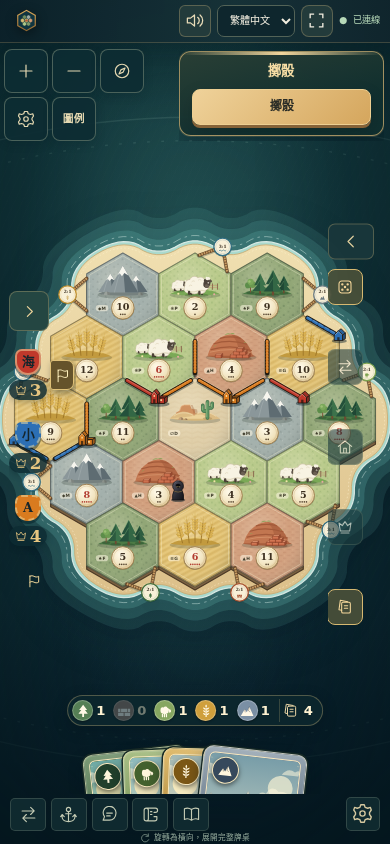
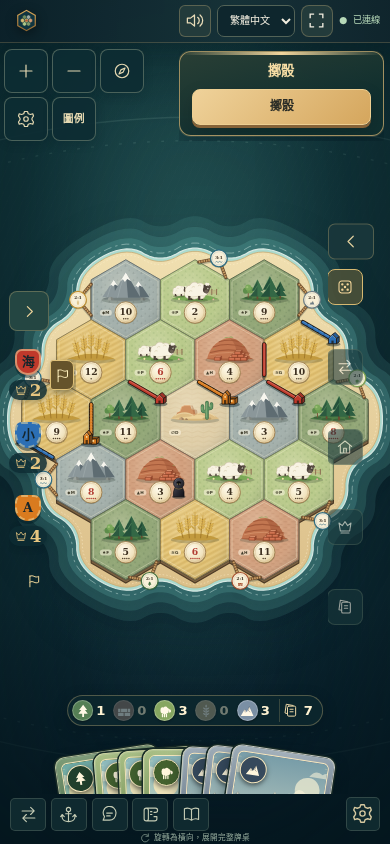
⚡ perf(board): memoise the SVG tile layer and merge emblem shapes
Address review follow-ups: widen the SVG view box padding and pull harbour
badges in so they stay inside the fitted board on phones, render the shore,
tiles, emblems and tokens in a memoised layer that pan and zoom skip, and
merge same-style emblem shapes into single paths (1,597 to 1,194 elements).
Add tests for unique paint ids and harbour badge placement.

Changed region(s): [[0.0, 0.2773, 1.0, 0.7393], [0.1231, 0.8318, 0.8615, 0.955], [0.7692, 0.8318, 0.8, 0.8626]]

diff --git a/packages/web/src/components/TerrainArt.tsx b/packages/web/src/components/TerrainArt.tsx
@@ -44,27 +44,36 @@ function Rock({ x, y, s = 1, fill = '#9aa19b' }: { x: number; y: number; s?: num
   </g>;
 }
 
+/** 一組圓合成單一路徑；同色重疊的圓填色結果與分開繪製相同，但 DOM 節點少得多。 */
+function circles(list: readonly (readonly [number, number, number])[], grow = 0): string {
+  return list.map(([cx, cy, r]) => {
+    const radius = r + grow;
+    return `M${cx - radius} ${cy}a${radius} ${radius} 0 1 0 ${radius * 2} 0a${radius} ${radius} 0 1 0 ${-radius * 2} 0Z`;
+  }).join('');
+}
+
+const WOOL: readonly (readonly [number, number, number])[] = [
+  [-13, -19, 8], [-4, -24, 9], [7, -23, 8.5], [14, -16, 7.5], [-15, -11, 7.5], [-4, -11, 9], [8, -11, 8.5],
+];
+const WOOL_OUTLINE = circles(WOOL, 1.4);
+const WOOL_FILL = circles(WOOL);
+
 function Sheep({ x, y, s = 1, flip = false }: { x: number; y: number; s?: number; flip?: boolean }) {
   // 捲毛身體由重疊圓構成：先畫略大的描邊圓，再畫毛色圓，最後點出毛捲。
-  const wool: readonly [number, number, number][] = [
-    [-13, -19, 8], [-4, -24, 9], [7, -23, 8.5], [14, -16, 7.5], [-15, -11, 7.5], [-4, -11, 9], [8, -11, 8.5],
-  ];
-  const leg = (lx: number, top: number, fill: string) => <rect x={lx - 2.2} y={top} width="4.4" height={-top + 0.5} rx="2" fill={fill} />;
   return <g transform={`translate(${x} ${y}) scale(${flip ? -s : s} ${s})`}>
     <ellipse cy="1" rx="22" ry="3.6" fill="#24401c" opacity=".28" />
-    {leg(-10, -10, '#3a312a')}{leg(10, -10, '#3a312a')}
-    {wool.map(([cx, cy, r]) => <circle key={`o${cx}${cy}`} cx={cx} cy={cy} r={r + 1.4} fill="#cfc6aa" />)}
-    {wool.map(([cx, cy, r]) => <circle key={`w${cx}${cy}`} cx={cx} cy={cy} r={r} fill="#f8f3e3" />)}
-    <path d="M-17-8q8 5 16 2t16-1" fill="none" stroke="#e2d9bf" strokeWidth="2.2" strokeLinecap="round" />
-    <path d="M-9-24q2-3 5-1M3-27q2-3 5 0M-14-16q2-3 5-1" fill="none" stroke="#e2d9bf" strokeWidth="1.4" strokeLinecap="round" />
-    {leg(-14, -7, '#4b4037')}{leg(5, -7, '#4b4037')}
+    <path d="M-12.2-10h4.4v10.5h-4.4ZM7.8-10h4.4v10.5h-4.4Z" fill="#3a312a" />
+    <path d={WOOL_OUTLINE} fill="#cfc6aa" />
+    <path d={WOOL_FILL} fill="#f8f3e3" />
+    <path d="M-17-8q8 5 16 2t16-1M-9-24q2-3 5-1M3-27q2-3 5 0M-14-16q2-3 5-1" fill="none" stroke="#e2d9bf" strokeWidth="1.8" strokeLinecap="round" />
+    <path d="M-16.2-7h4.4v7.5h-4.4ZM2.8-7h4.4v7.5h-4.4Z" fill="#4b4037" />
     <g transform="translate(19 -21) rotate(18)">
       <ellipse cx="-3" cy="-6" rx="5.2" ry="2.4" transform="rotate(-35 -3 -6)" fill="#3a312a" />
       <ellipse rx="6.4" ry="8.6" fill="#4d433a" />
       <ellipse cx="1.5" cy="5" rx="4" ry="3.4" fill="#6b5f53" />
       <circle cx="2.2" cy="-1.5" r="1.5" fill="#fbf6e6" /><circle cx="2.6" cy="-1.3" r=".7" fill="#1d1915" />
       <ellipse cx="3" cy="-6.5" rx="5" ry="2.2" transform="rotate(10 3 -6.5)" fill="#5c5046" />
-      <circle cx="-2.5" cy="-8.4" r="3" fill="#f8f3e3" /><circle cx="0.5" cy="-9.4" r="2.6" fill="#f8f3e3" />
+      <path d={circles([[-2.5, -8.4, 3], [0.5, -9.4, 2.6]])} fill="#f8f3e3" />
     </g>
   </g>;
 }
@@ -90,36 +99,51 @@ function Cactus({ x, y, s = 1 }: { x: number; y: number; s?: number }) {
 }
 
 /** 一塊帶頂面與側面的立體磚，原點在正面左下角。 */
+/** 立體磚的三個面與刻線；原點在正面左下角，可串接多塊為單一路徑。 */
+function brickFaces(x: number, y: number) {
+  return {
+    top: `M${x} ${y - 7}l4-3.5h14l-4 3.5Z`,
+    side: `M${x + 14} ${y - 7}l4-3.5v7l-4 3.5Z`,
+    front: `M${x} ${y - 7}h14v7h-14Z`,
+    groove: `M${x + 1.6} ${y - 4.6}h10.8`,
+  };
+}
+
 function Brick({ x, y }: { x: number; y: number }) {
-  return <g transform={`translate(${x} ${y})`} strokeLinejoin="round" stroke="#7d3a24" strokeWidth=".9">
-    <path d="M0-7l4-3.5h14L14-7Z" fill="#eda27c" />
-    <path d="M14-7l4-3.5V-3.5L14 0Z" fill="#9c4d33" />
-    <rect x="0" y="-7" width="14" height="7" fill="#c96b4a" />
-    <path d="M1.6-4.6h10.8" stroke="#e08a66" strokeWidth="1" />
+  const faces = brickFaces(x, y);
+  return <BrickFaces faces={[faces]} />;
+}
+
+/** 依頂面、側面、正面的順序繪製，後繪的正面蓋住前一塊的側面，與逐塊疊放的結果相同。 */
+function BrickFaces({ faces }: { faces: readonly ReturnType<typeof brickFaces>[] }) {
+  const join = (key: keyof ReturnType<typeof brickFaces>) => faces.map((face) => face[key]).join('');
+  return <g strokeLinejoin="round" stroke="#7d3a24" strokeWidth=".9">
+    <path d={join('top')} fill="#eda27c" />
+    <path d={join('side')} fill="#9c4d33" />
+    <path d={join('front')} fill="#c96b4a" />
+    <path d={join('groove')} stroke="#e08a66" strokeWidth="1" />
   </g>;
 }
 
+const BRICK_STACK = ([[-21, -7, 7], [-14, 0], [-7]] as const).flatMap((row, level) => row.map((bx) => brickFaces(bx, -level * 7)));
+
 function BrickStack({ x, y, s = 1 }: { x: number; y: number; s?: number }) {
-  // 由下而上、由左而右疊放，後畫的磚自然蓋住前一塊的側面。
-  const rows: readonly (readonly number[])[] = [[-21, -7, 7], [-14, 0], [-7]];
   return <g transform={`translate(${x} ${y}) scale(${s})`}>
     <ellipse cx="2" cy="1" rx="26" ry="4.2" fill="#4a2414" opacity=".28" />
-    {rows.map((row, level) => row.map((bx) => <Brick key={`${level}:${bx}`} x={bx} y={-level * 7} />))}
+    <BrickFaces faces={BRICK_STACK} />
   </g>;
 }
 
 function WheatStalk({ x, h, lean }: { x: number; h: number; lean: number }) {
-  const kernels = [0, 1, 2, 3];
+  // 左右兩排麥粒各合成一條路徑，每株只需七個節點。
+  const rows = [0, 1, 2, 3].map((k) => -h + 6 + k * 6.5);
+  const left = rows.map((ky) => `M0 ${ky}q-7-1-7.5-7.5q6 1 7.5 6Z`).join('');
+  const right = rows.map((ky) => `M0 ${ky}q7-1 7.5-7.5q-6 1-7.5 6Z`).join('');
   return <g transform={`translate(${x} 0) rotate(${lean})`}>
     <path d={`M0 0V${-h}`} stroke="#9c7426" strokeWidth="2" strokeLinecap="round" />
     <path d={`M0 ${-h * 0.35}q-9-4-11-12q8 2 11 9`} fill="#c9a447" />
-    {kernels.map((k) => {
-      const ky = -h + 3 + k * 6.5;
-      return <g key={k}>
-        <path d={`M0 ${ky + 3}q-7-1-7.5-7.5q6 1 7.5 6Z`} fill="#f1cf6e" stroke="#b78a2e" strokeWidth=".8" />
-        <path d={`M0 ${ky + 3}q7-1 7.5-7.5q-6 1-7.5 6Z`} fill="#e4bb55" stroke="#b78a2e" strokeWidth=".8" />
-      </g>;
-    })}
+    <path d={left} fill="#f1cf6e" stroke="#b78a2e" strokeWidth=".8" />
+    <path d={right} fill="#e4bb55" stroke="#b78a2e" strokeWidth=".8" />
     <path d={`M0 ${-h - 1}q-1.6-4 0-8 1.6 4 0 8Z`} fill="#f6da86" stroke="#b78a2e" strokeWidth=".8" />
     <path d={`M-2 ${-h - 4}l-5-10M2 ${-h - 4}l5-10M0 ${-h - 8}v-9`} stroke="#d7b257" strokeWidth=".9" />
   </g>;

diff --git a/packages/web/src/components/SvgBoard.tsx b/packages/web/src/components/SvgBoard.tsx
@@ -1,4 +1,4 @@
-import { useId, type ComponentProps, type Ref } from 'react';
+import { memo, useId, useMemo, type ComponentProps, type Ref } from 'react';
 import type { GameView } from '@catan/rules';
 import type { BoardEffectGroup } from '../board/animation.ts';
 import type { BoardGeometry, Point } from '../board/geometry.ts';
@@ -7,7 +7,7 @@ import type { TableState } from '../state/table.ts';
 import { useT } from '../i18n/context.tsx';
 import { pipsFor, playerColorHex, resourceLetter, seatDash, terrainFill, terrainLetter, terrainSymbol } from '../board/terrain.ts';
 import { confirmedPlacement } from '../board/effects.ts';
-import { BoardArtDefs, BoardBuilding, boardArtIds, HarborMarker, IslandShore, NumberToken, RobberPiece, shade, TileFinish } from './SvgBoardArt.tsx';
+import { BoardArtDefs, BoardBuilding, boardArtIds, type BoardArtIds, HarborMarker, IslandShore, NumberToken, RobberPiece, shade, TileFinish } from './SvgBoardArt.tsx';
 import { TerrainEmblem } from './TerrainArt.tsx';
 
 interface SvgBoardProps extends Omit<ComponentProps<'svg'>, 'viewBox' | 'points'> {
@@ -39,48 +39,64 @@ function inset(edge: { x1: number; y1: number; x2: number; y2: number }, amount 
   return { x1: edge.x1 + dx * amount, y1: edge.y1 + dy * amount, x2: edge.x2 - dx * amount, y2: edge.y2 - dy * amount };
 }
 
+/**
+ * 海岸、地塊、圖示與數字牌只隨版圖改變；拖曳或縮放時 SvgBoard 每個影格都會重繪，
+ * 這一層以 memo 跳過。
+ */
+const StaticTiles = memo(function StaticTiles({ geometry, terrain, numbers, ids }: {
+  geometry: BoardGeometry;
+  terrain: GameView['board']['terrain'];
+  numbers: GameView['board']['numbers'];
+  ids: BoardArtIds;
+}) {
+  return <>
+    <IslandShore geometry={geometry} ids={ids} />
+    <g aria-hidden="true" pointerEvents="none">
+      {geometry.hexes.map((hex) => <polygon key={hex.index} points={hex.points} className="board__tile-base" transform="translate(0 9)" />)}
+    </g>
+    {geometry.hexes.map((hex) => {
+      const kind = terrain[hex.index] ?? 'sea';
+      const number = numbers[hex.index];
+      const fill = terrainFill(kind);
+      return (
+        <g key={`hex-${hex.index}`}>
+          <polygon
+            className="board__tile-top"
+            data-testid={`hex-${hex.index}`}
+            points={hex.points}
+            fill={fill}
+            stroke={shade(fill, -0.42)}
+            strokeWidth={2.5}
+            strokeLinejoin="round"
+          />
+          <TileFinish terrain={kind} points={hex.points} cx={hex.cx} cy={hex.cy} ids={ids} />
+          <TerrainEmblem terrain={kind} x={hex.cx} y={hex.cy - 4} />
+          <g aria-hidden="true" pointerEvents="none">
+            <rect x={hex.cx - 65} y={hex.cy + 25} width={30} height={15} rx={7.5} fill="#fff8e4" opacity=".55" />
+            <text className="board__terrain" x={hex.cx - 50} y={hex.cy + 36.5} textAnchor="middle">
+              {terrainSymbol(kind)}
+              {terrainLetter(kind)}
+            </text>
+          </g>
+          {number !== null && number !== undefined && (
+            <NumberToken x={hex.cx} y={hex.cy + TOKEN_DROP} number={number} pips={pipsFor(number)} ids={ids} />
+          )}
+        </g>
+      );
+    })}
+  </>;
+});
+
 export function SvgBoard({ svgRef, geometry, view, active, selection, selfId, intent, pan, zoom, viewBoxCenter, nameResolver, ...svgProps }: SvgBoardProps) {
   const t = useT();
-  const ids = boardArtIds(`board-art-${useId().replace(/[^a-zA-Z0-9_-]/g, '')}`);
+  const prefix = useId().replace(/[^a-zA-Z0-9_-]/g, '');
+  const ids = useMemo(() => boardArtIds(`board-art-${prefix}`), [prefix]);
   const board = view.board;
   const selfColor = playerColorHex(view.players.find((player) => player.id === selfId)?.color ?? 'white');
   return (
     <svg {...svgProps} ref={svgRef} className="board__svg" data-testid="board-svg" role="img" aria-label={t('a11y.boardRegion')} viewBox={geometry.viewBox} preserveAspectRatio="xMidYMid meet">
         <g transform={`translate(${viewBoxCenter.x + pan.x} ${viewBoxCenter.y + pan.y}) scale(${zoom}) translate(${-viewBoxCenter.x} ${-viewBoxCenter.y})`}>
-          <IslandShore geometry={geometry} ids={ids} />
-          <g aria-hidden="true" pointerEvents="none">
-            {geometry.hexes.map((hex) => <polygon key={hex.index} points={hex.points} className="board__tile-base" transform="translate(0 9)" />)}
-          </g>
-          {geometry.hexes.map((hex) => {
-            const terrain = board.terrain[hex.index] ?? 'sea';
-            const number = board.numbers[hex.index];
-            const fill = terrainFill(terrain);
-            return (
-              <g key={`hex-${hex.index}`}>
-                <polygon
-                  className="board__tile-top"
-                  data-testid={`hex-${hex.index}`}
-                  points={hex.points}
-                  fill={fill}
-                  stroke={shade(fill, -0.42)}
-                  strokeWidth={2.5}
-                  strokeLinejoin="round"
-                />
-                <TileFinish terrain={terrain} points={hex.points} cx={hex.cx} cy={hex.cy} ids={ids} />
-                <TerrainEmblem terrain={terrain} x={hex.cx} y={hex.cy - 4} />
-                <g aria-hidden="true" pointerEvents="none">
-                  <rect x={hex.cx - 65} y={hex.cy + 25} width={30} height={15} rx={7.5} fill="#fff8e4" opacity=".55" />
-                  <text className="board__terrain" x={hex.cx - 50} y={hex.cy + 36.5} textAnchor="middle">
-                    {terrainSymbol(terrain)}
-                    {terrainLetter(terrain)}
-                  </text>
-                </g>
-                {number !== null && number !== undefined && (
-                  <NumberToken x={hex.cx} y={hex.cy + TOKEN_DROP} number={number} pips={pipsFor(number)} ids={ids} />
-                )}
-              </g>
-            );
-          })}
+          <StaticTiles geometry={geometry} terrain={board.terrain} numbers={board.numbers} ids={ids} />
 
           {board.harbors.map((harbor) => {
             const edge = geometry.edges[harbor.edge];

diff --git a/packages/web/test/svg-board-art.test.tsx b/packages/web/test/svg-board-art.test.tsx
@@ -1,0 +1,60 @@
+import { render } from '@testing-library/react';
+import { describe, expect, it } from 'vitest';
+import { SvgBoard } from '../src/components/SvgBoard.tsx';
+import { buildGeometry } from '../src/board/geometry.ts';
+import { LocaleProvider } from '../src/i18n/context.tsx';
+import { EMPTY_SELECTION } from '../src/state/table.ts';
+import { fixedBoard, makeView } from '../src/test/fixtures.ts';
+
+const geometry = buildGeometry('hex-r2');
+const [vx, vy, vw, vh] = geometry.viewBox.split(' ').map(Number) as [number, number, number, number];
+
+function board() {
+  return <SvgBoard svgRef={null} geometry={geometry} view={makeView({ board: fixedBoard() })} active={null}
+    selection={EMPTY_SELECTION} selfId="p1" intent={null} pan={{ x: 0, y: 0 }} zoom={1}
+    viewBoxCenter={{ x: vx + vw / 2, y: vy + vh / 2 }} nameResolver={(id) => id} />;
+}
+
+function translation(element: Element): { x: number; y: number } {
+  const match = /translate\(([-\d.]+) ([-\d.]+)\)/.exec(element.getAttribute('transform') ?? '');
+  if (!match) throw new Error('missing translate');
+  return { x: Number(match[1]), y: Number(match[2]) };
+}
+
+describe('SVG board art', () => {
+  it('keeps ids unique across two boards and resolves every paint reference inside its own board', () => {
+    const { container } = render(<LocaleProvider locale="en">{board()}{board()}</LocaleProvider>);
+    const ids = [...container.querySelectorAll('[id]')].map((node) => node.id);
+    expect(ids.length).toBeGreaterThan(0);
+    expect(new Set(ids).size).toBe(ids.length);
+    for (const svg of container.querySelectorAll('svg[data-testid="board-svg"]')) {
+      const references = [...svg.querySelectorAll('[fill^="url("], [stroke^="url("]')]
+        .flatMap((node) => [node.getAttribute('fill'), node.getAttribute('stroke')])
+        .filter((value): value is string => !!value?.startsWith('url('));
+      expect(references.length).toBeGreaterThan(0);
+      for (const reference of references) {
+        const id = reference.slice(5, -1);
+        expect(svg.querySelector(`[id="${id}"]`), reference).not.toBeNull();
+      }
+    }
+  });
+
+  it('draws one emblem per tile and places every harbour badge at sea but inside the fitted view box', () => {
+    const { container } = render(<LocaleProvider locale="en">{board()}</LocaleProvider>);
+    expect(container.querySelectorAll('.board__terrain-art')).toHaveLength(geometry.hexes.length);
+    const harbors = fixedBoard().harbors;
+    expect(harbors.length).toBeGreaterThan(0);
+    for (const harbor of harbors) {
+      const group = container.querySelector(`[data-testid="harbor-${harbor.edge}"]`)!;
+      const badge = [...group.querySelectorAll('g[transform]')].find((node) => node.querySelector('circle[r="21"]'))!;
+      const { x, y } = translation(badge);
+      const land = geometry.hexes[geometry.topology.edges[harbor.edge]!.hexes[0]!]!;
+      // 徽章中心在陸地六角形之外（大於頂點半徑），整顆徽章仍在 viewBox 之內。
+      expect(Math.hypot(x - land.cx, y - land.cy)).toBeGreaterThan(geometry.scale);
+      expect(x - 22).toBeGreaterThanOrEqual(vx);
+      expect(x + 22).toBeLessThanOrEqual(vx + vw);
+      expect(y - 22).toBeGreaterThanOrEqual(vy);
+      expect(y + 22).toBeLessThanOrEqual(vy + vh);
+    }
+  });
+});

diff --git a/packages/web/src/components/SvgBoardArt.tsx b/packages/web/src/components/SvgBoardArt.tsx
@@ -142,7 +142,8 @@ export function HarborMarker({ from, to, center, type, label }: { from: Point; t
   let ny = my - center.y;
   const length = Math.hypot(nx, ny) || 1;
   nx /= length; ny /= length;
-  const badge = { x: mx + nx * 46, y: my + ny * 46 };
+  // 徽章外緣（33 + 半徑 22）不超過 viewBox 的 0.55 格留白。
+  const badge = { x: mx + nx * 33, y: my + ny * 33 };
   const pier = (corner: Point) => {
     const start = { x: corner.x + (mx - corner.x) * 0.22, y: corner.y + (my - corner.y) * 0.22 };
     const end = { x: badge.x + (start.x - badge.x) * 0.3, y: badge.y + (start.y - badge.y) * 0.3 };

diff --git a/packages/web/src/board/geometry.ts b/packages/web/src/board/geometry.ts
@@ -55,7 +55,8 @@ export interface BoardGeometry {
 }
 
 const CORNER_ANGLES = [30, 90, 150, 210, 270, 330].map((degrees) => (degrees * Math.PI) / 180);
-const PADDING = 0.35;
+// 港口徽章伸出海岸約 0.55 格；留白讓沙灘與徽章都落在 SVG 的適配範圍內。
+const PADDING = 0.55;
 
 function hexCorners(cx: number, cy: number, scale: number): Point[] {
   return CORNER_ANGLES.map((angle) => ({

diff --git a/docs/aegis/work/2026-10-31-svg-board-polish.md b/docs/aegis/work/2026-10-31-svg-board-polish.md
@@ -57,6 +57,28 @@ solid-colour cells) are unchanged.
   real three-player game through the HTTP API and captures the SVG board at
   desktop, close-up and phone sizes plus the expanded hand; it fails on any
   browser runtime error. Captures are in `docs/screenshots/svg-board-polish/`.
-- Test and `pnpm verify` results are recorded in the PR.
+- `svg-board-art.test.tsx`: two boards in one document share no `id`, every
+  `url(#…)` paint resolves inside its own board, each tile has one emblem, and
+  every harbour badge sits outside its land hex and inside the view box.
+- `pnpm verify` passes: typecheck; rules 138, protocol 7, server 99 (11
+  PostgreSQL-only skipped), web 536 tests in 54 files; build, smoke, `test:dev`.
+
+## Review follow-ups
+
+- The view box padding grows from 0.35 to 0.55 hex and harbour badges sit 33
+  units off the coast, so sand and badges stay inside the SVG fit instead of
+  sliding under the side rails on a phone. Target projection reads the same
+  view box, so hit targets stay aligned.
+- Shore, tiles, emblems and tokens render in a memoised `StaticTiles` layer, so
+  pan and zoom frames only re-render roads, buildings, the robber and the ghost.
+- Same-style shapes are merged into single paths (wool circles, brick faces,
+  wheat kernels). The board drops from 1,597 to 1,194 SVG elements; a jsdom
+  lobby test that mounts the board went from about 800 ms back to about 500 ms
+  (`master`: about 490 ms) after a first `pnpm verify` timed out its 1 s
+  `findBy` under parallel load.
+- `coastline.ts` treats a vertex shared by two separate land regions and inland
+  sea holes naively. Only disabled rulesets could produce such boards; the file
+  stays byte-identical to the 3D branch's copy, so a fix belongs in a follow-up
+  that both branches share.
 
 No physical-device, screen-reader or 200% zoom check was run.
